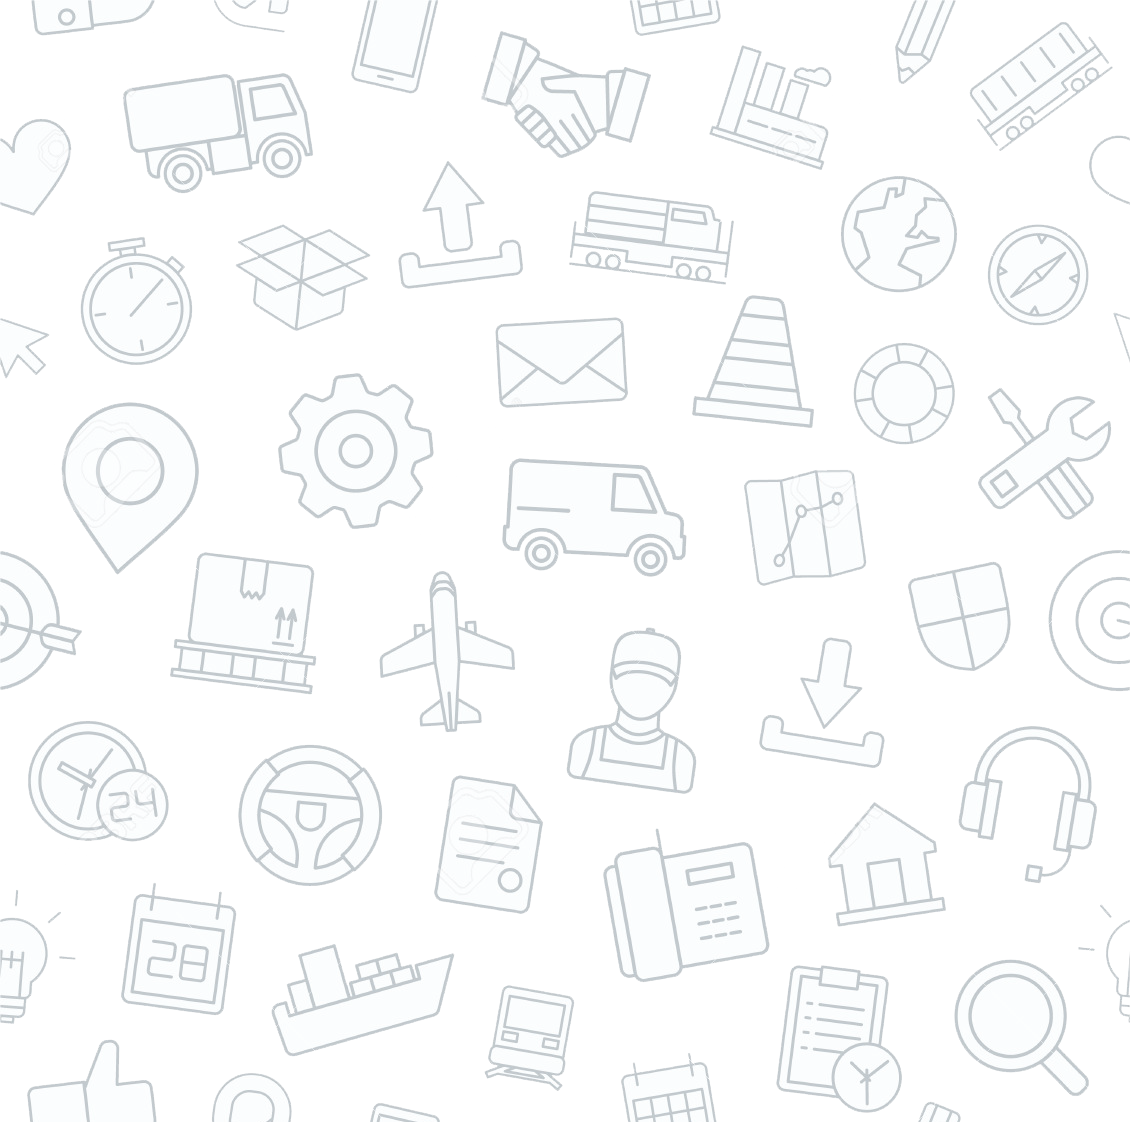
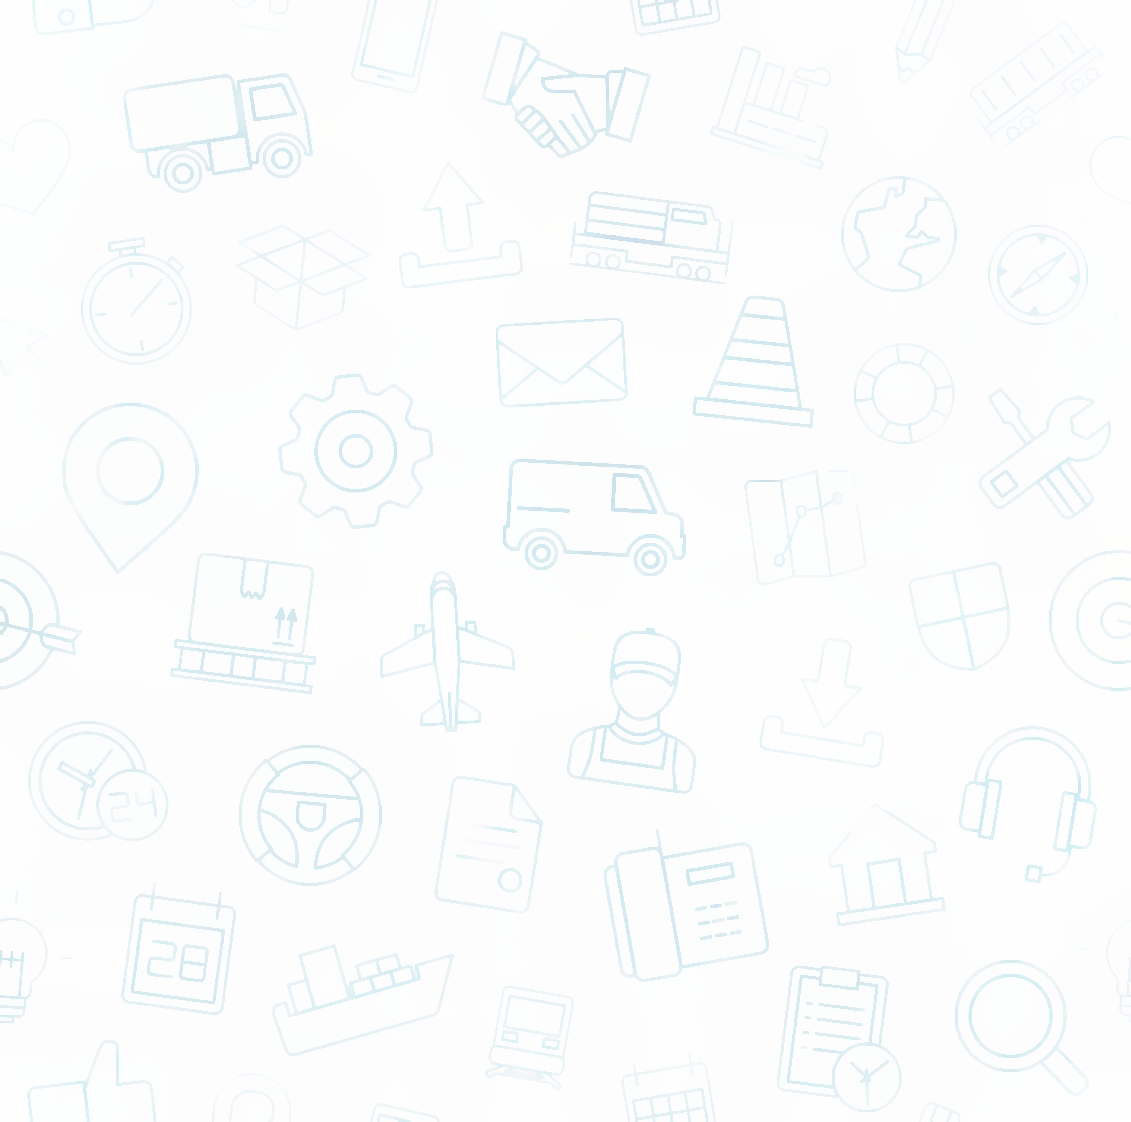
Background

diff --git a/SCM/www/css/style.css b/SCM/www/css/style.css
@@ -1,6 +1,6 @@
 .pane {
     /*background: url(../img/background.jpg) no-repeat center center fixed; */
-    background-color: #00bfd1;
+    background-image: url(../img/loginBackground.png);
     -webkit-background-size: cover;
     -moz-background-size: cover;
     background-size: cover;
@@ -37,6 +37,7 @@
 
 .menu-open .bar.bar-header.expanded {
     background-size: 0 !important;
+    background-color: transparent;
 }
 
 .loginContent {
@@ -56,7 +57,9 @@
 .profile-item {
     background-size: cover;
     text-align: center;
-    border-color: #00acc1 !important;
+    /*border-color: #00acc1 !important;*/
+    border-style: none;
+    border-color: transparent !important;
 }
 
 .profile-picture {
@@ -181,7 +184,7 @@
 #content {
     position: relative;
     margin-top: 20%;
-    background-color: rgba(16, 188, 205, 0.25);
+    background-color: #c4eff3;
     box-shadow: 0px -1px 10px rgba(0, 0, 0, 0.4);
     padding-top: 30%;
 }

diff --git a/SCM/www/templates/menu.html b/SCM/www/templates/menu.html
@@ -24,7 +24,7 @@
                 </div>
             </ion-item>
         </ion-header-bar>
-        <ion-content class="has-expanded-header" style="background-image: url('img/loginBackground.png');">
+        <ion-content class="has-expanded-header">
             <ion-list>
                 <ion-item menu-close href="#/login" ng-if="!islogin">
                     <dt> Login </dt>
